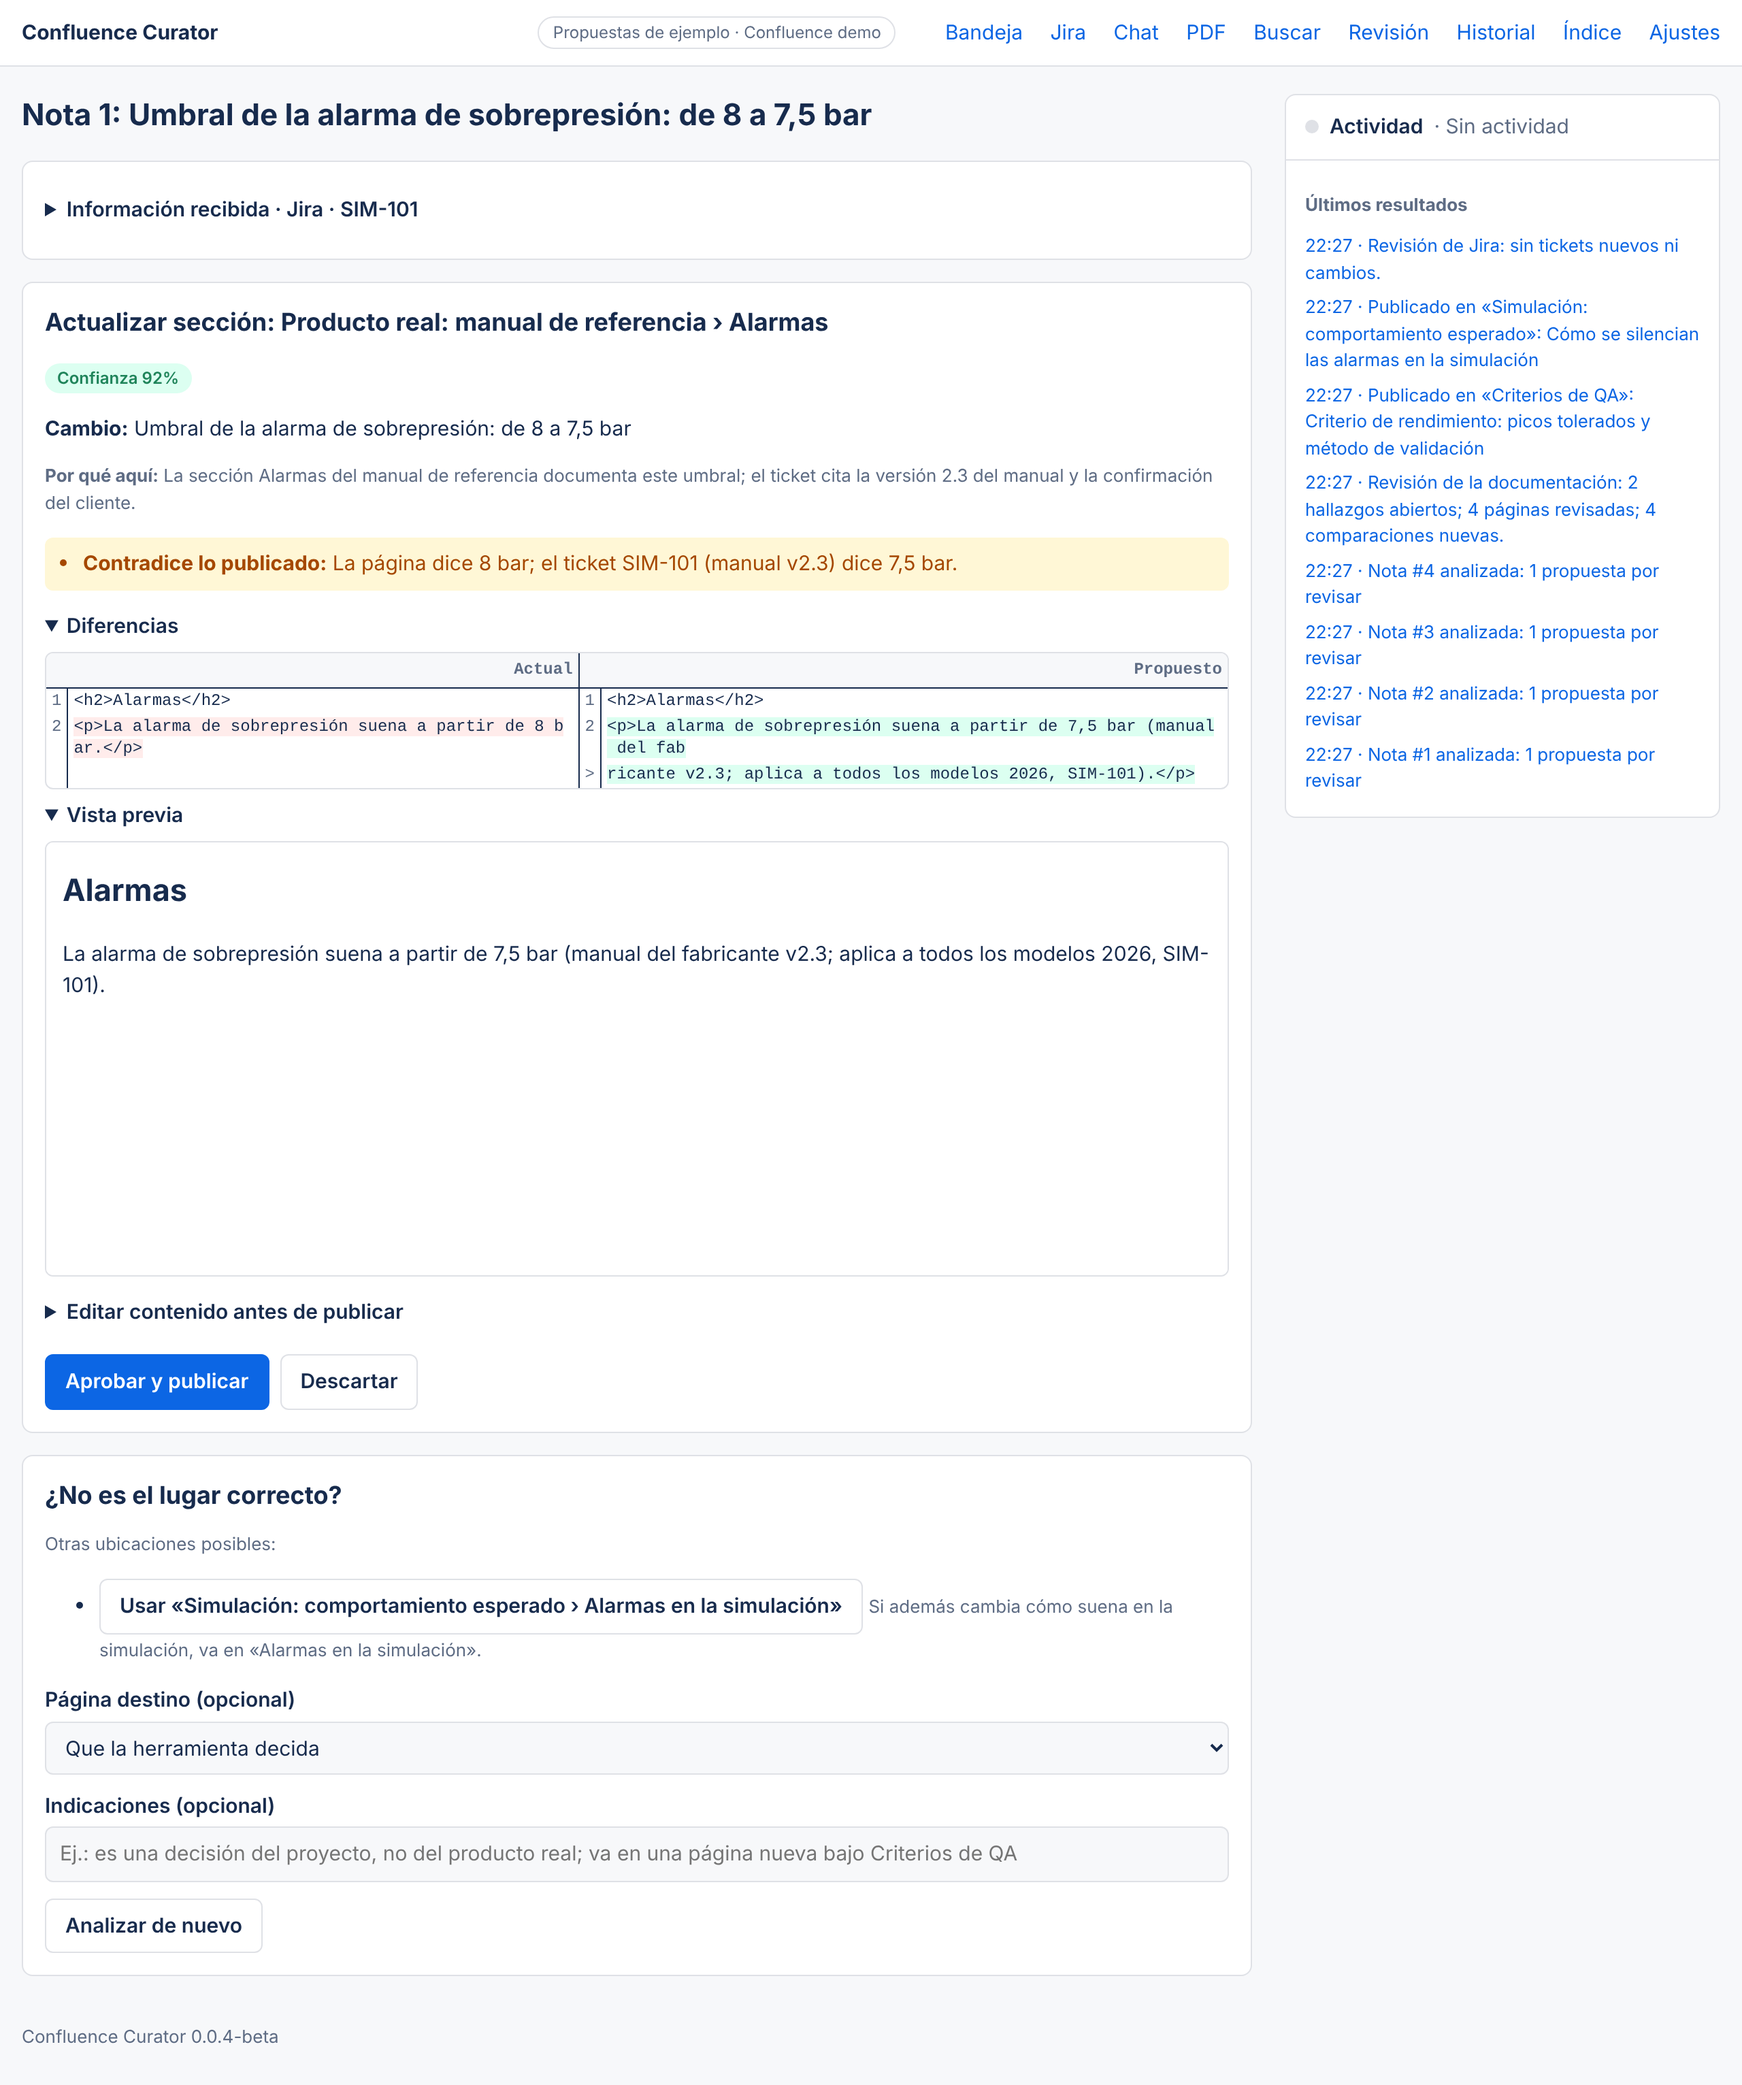
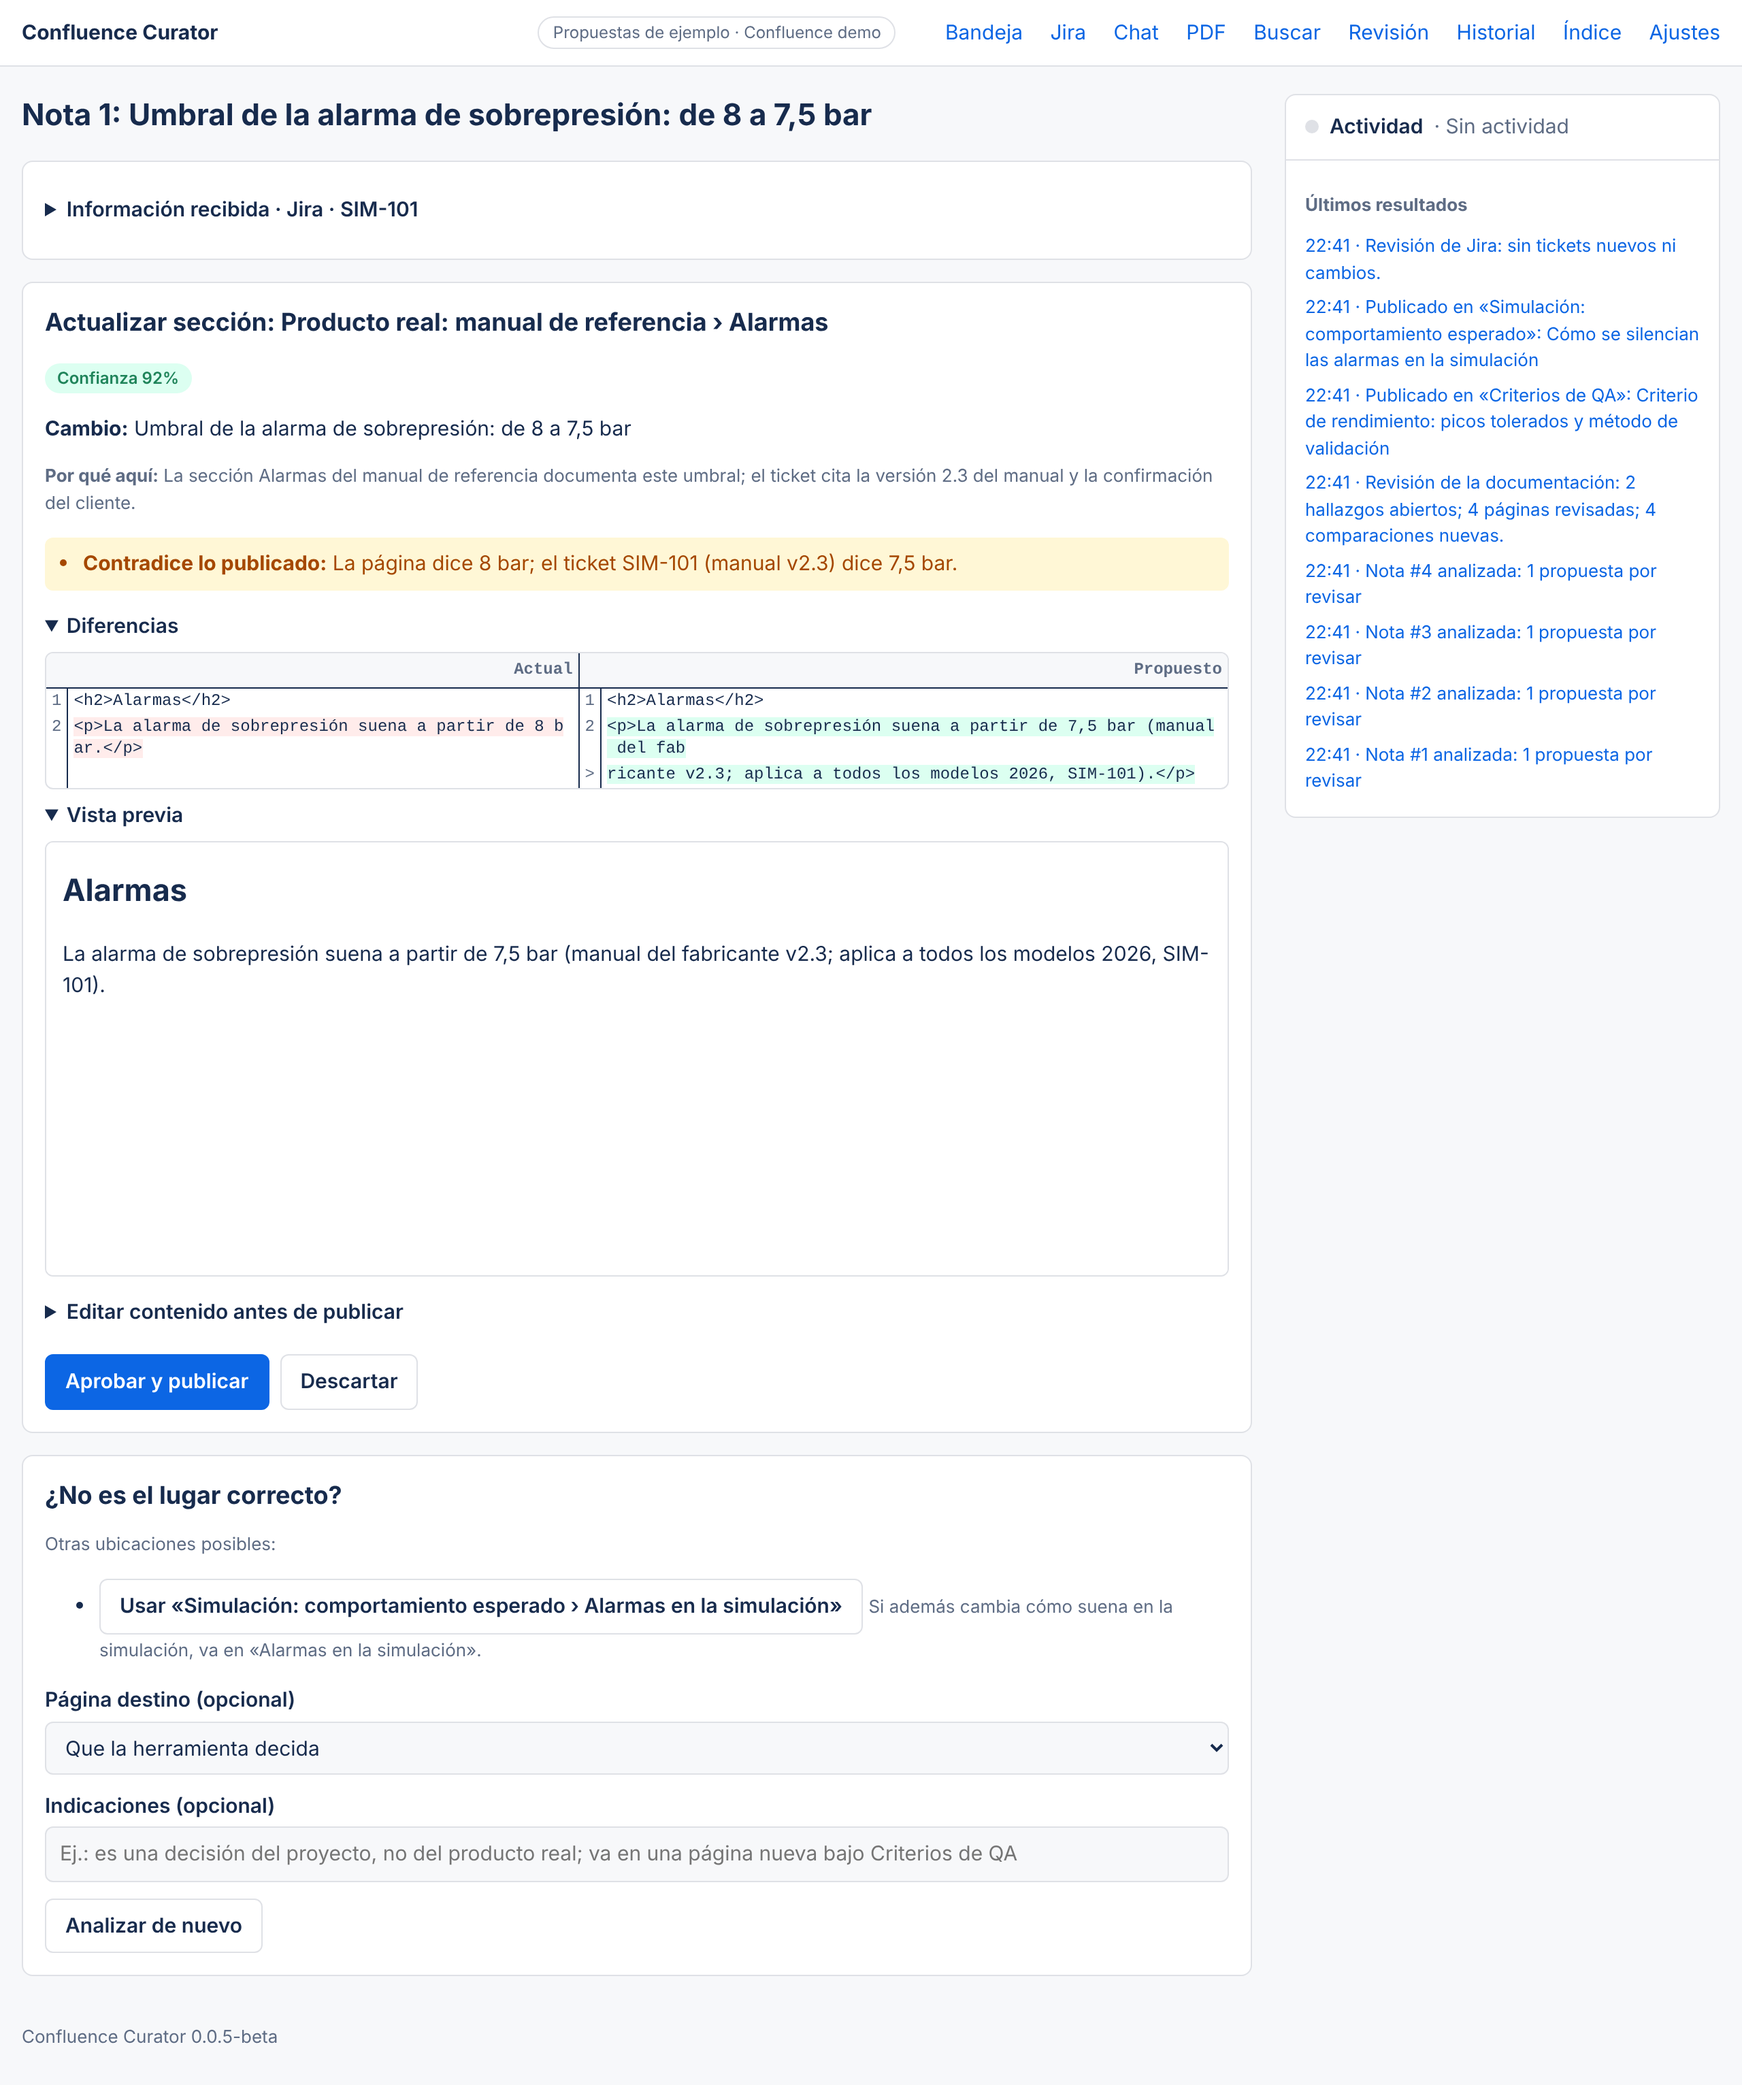
Versión 0.0.5-beta
Actividad en su propia columna, estilos sin caché vieja, y Ollama con
avance visible, Detener inmediato y consultas más livianas. CHANGELOG,
aviso de beta y capturas con la versión nueva.

Claude-Session: https://claude.ai/code/session_01NsqyUFp7jb4bHVYE1DwxWd

Changed region(s): [[0.75, 0.186, 0.9688, 0.3721], [0.7812, 0.093, 0.9375, 0.155]]

diff --git a/curator/__init__.py b/curator/__init__.py
@@ -1,3 +1,3 @@
 """Confluence Curator: sugiere dónde documentar información nueva y actualiza Confluence con tu aprobación."""
 
-__version__ = "0.0.4-beta"
+__version__ = "0.0.5-beta"

diff --git a/CHANGELOG.md b/CHANGELOG.md
@@ -1,13 +1,12 @@
 # Cambios
 
-## Sin publicar
+## 0.0.5-beta (2026-10-30)
 
 - Modelo local (Ollama): la respuesta llega por partes. El bloque Actividad muestra si el modelo está leyendo el contexto o redactando y cuántos caracteres lleva, y **Detener** corta la generación en Ollama de inmediato (antes había que esperar a que terminara, hasta 15 minutos).
 - Ollama recibe 5 secciones candidatas por nota en vez de 10 y un contexto ajustado al tamaño de cada consulta, para responder antes y usar menos memoria; si algo no cabe, se avisa en lugar de recortarlo en silencio.
 - Una detención durante la respuesta de la IA deja la nota como «Detenida», no como error.
 - «Analizar de nuevo» no se ofrece mientras la nota se está analizando, y una nota no entra dos veces a la cola.
 - El asistente indica qué tamaño de modelo local conviene según la memoria del equipo.
-
 - El bloque **Actividad** tiene su lugar en la interfaz: una columna a la derecha del contenido en pantallas anchas (sigue el desplazamiento) y una franja plegable bajo el menú en las angostas. Ya no flota sobre la página.
 - Las tareas detenidas que esperan a que termine una respuesta de la IA se muestran como «Deteniendo…», y el botón Detener se oculta cuando no queda nada por detener.
 - Corregido: después de actualizar, el navegador podía seguir usando la hoja de estilos de la versión anterior (y mostrar el bloque Actividad sin formato). Ahora cada versión de los estilos tiene su propia dirección.

diff --git a/README.md b/README.md
@@ -1,6 +1,6 @@
 # Confluence Curator
 
-> **Beta 0.0.4.** La conexión con Confluence Cloud y Jira Cloud reales ya se probó; el resto del flujo (propuestas y publicación) y la conexión con Slack se probaron con servicios simulados. Los lanzadores funcionan en Mac y Linux; el de Windows todavía no se probó. Haz las primeras publicaciones en páginas sin importancia.
+> **Beta 0.0.5.** La conexión con Confluence Cloud y Jira Cloud reales ya se probó; las propuestas, la publicación, Ollama y Slack se probaron con servicios simulados. Los lanzadores funcionan en Mac y Linux; el de Windows todavía no se probó. Haz las primeras publicaciones en páginas sin importancia.
 
 Herramienta para consolidar en Confluence la información del proyecto que hoy está dispersa en chats, tickets de Jira y manuales del producto.
 
